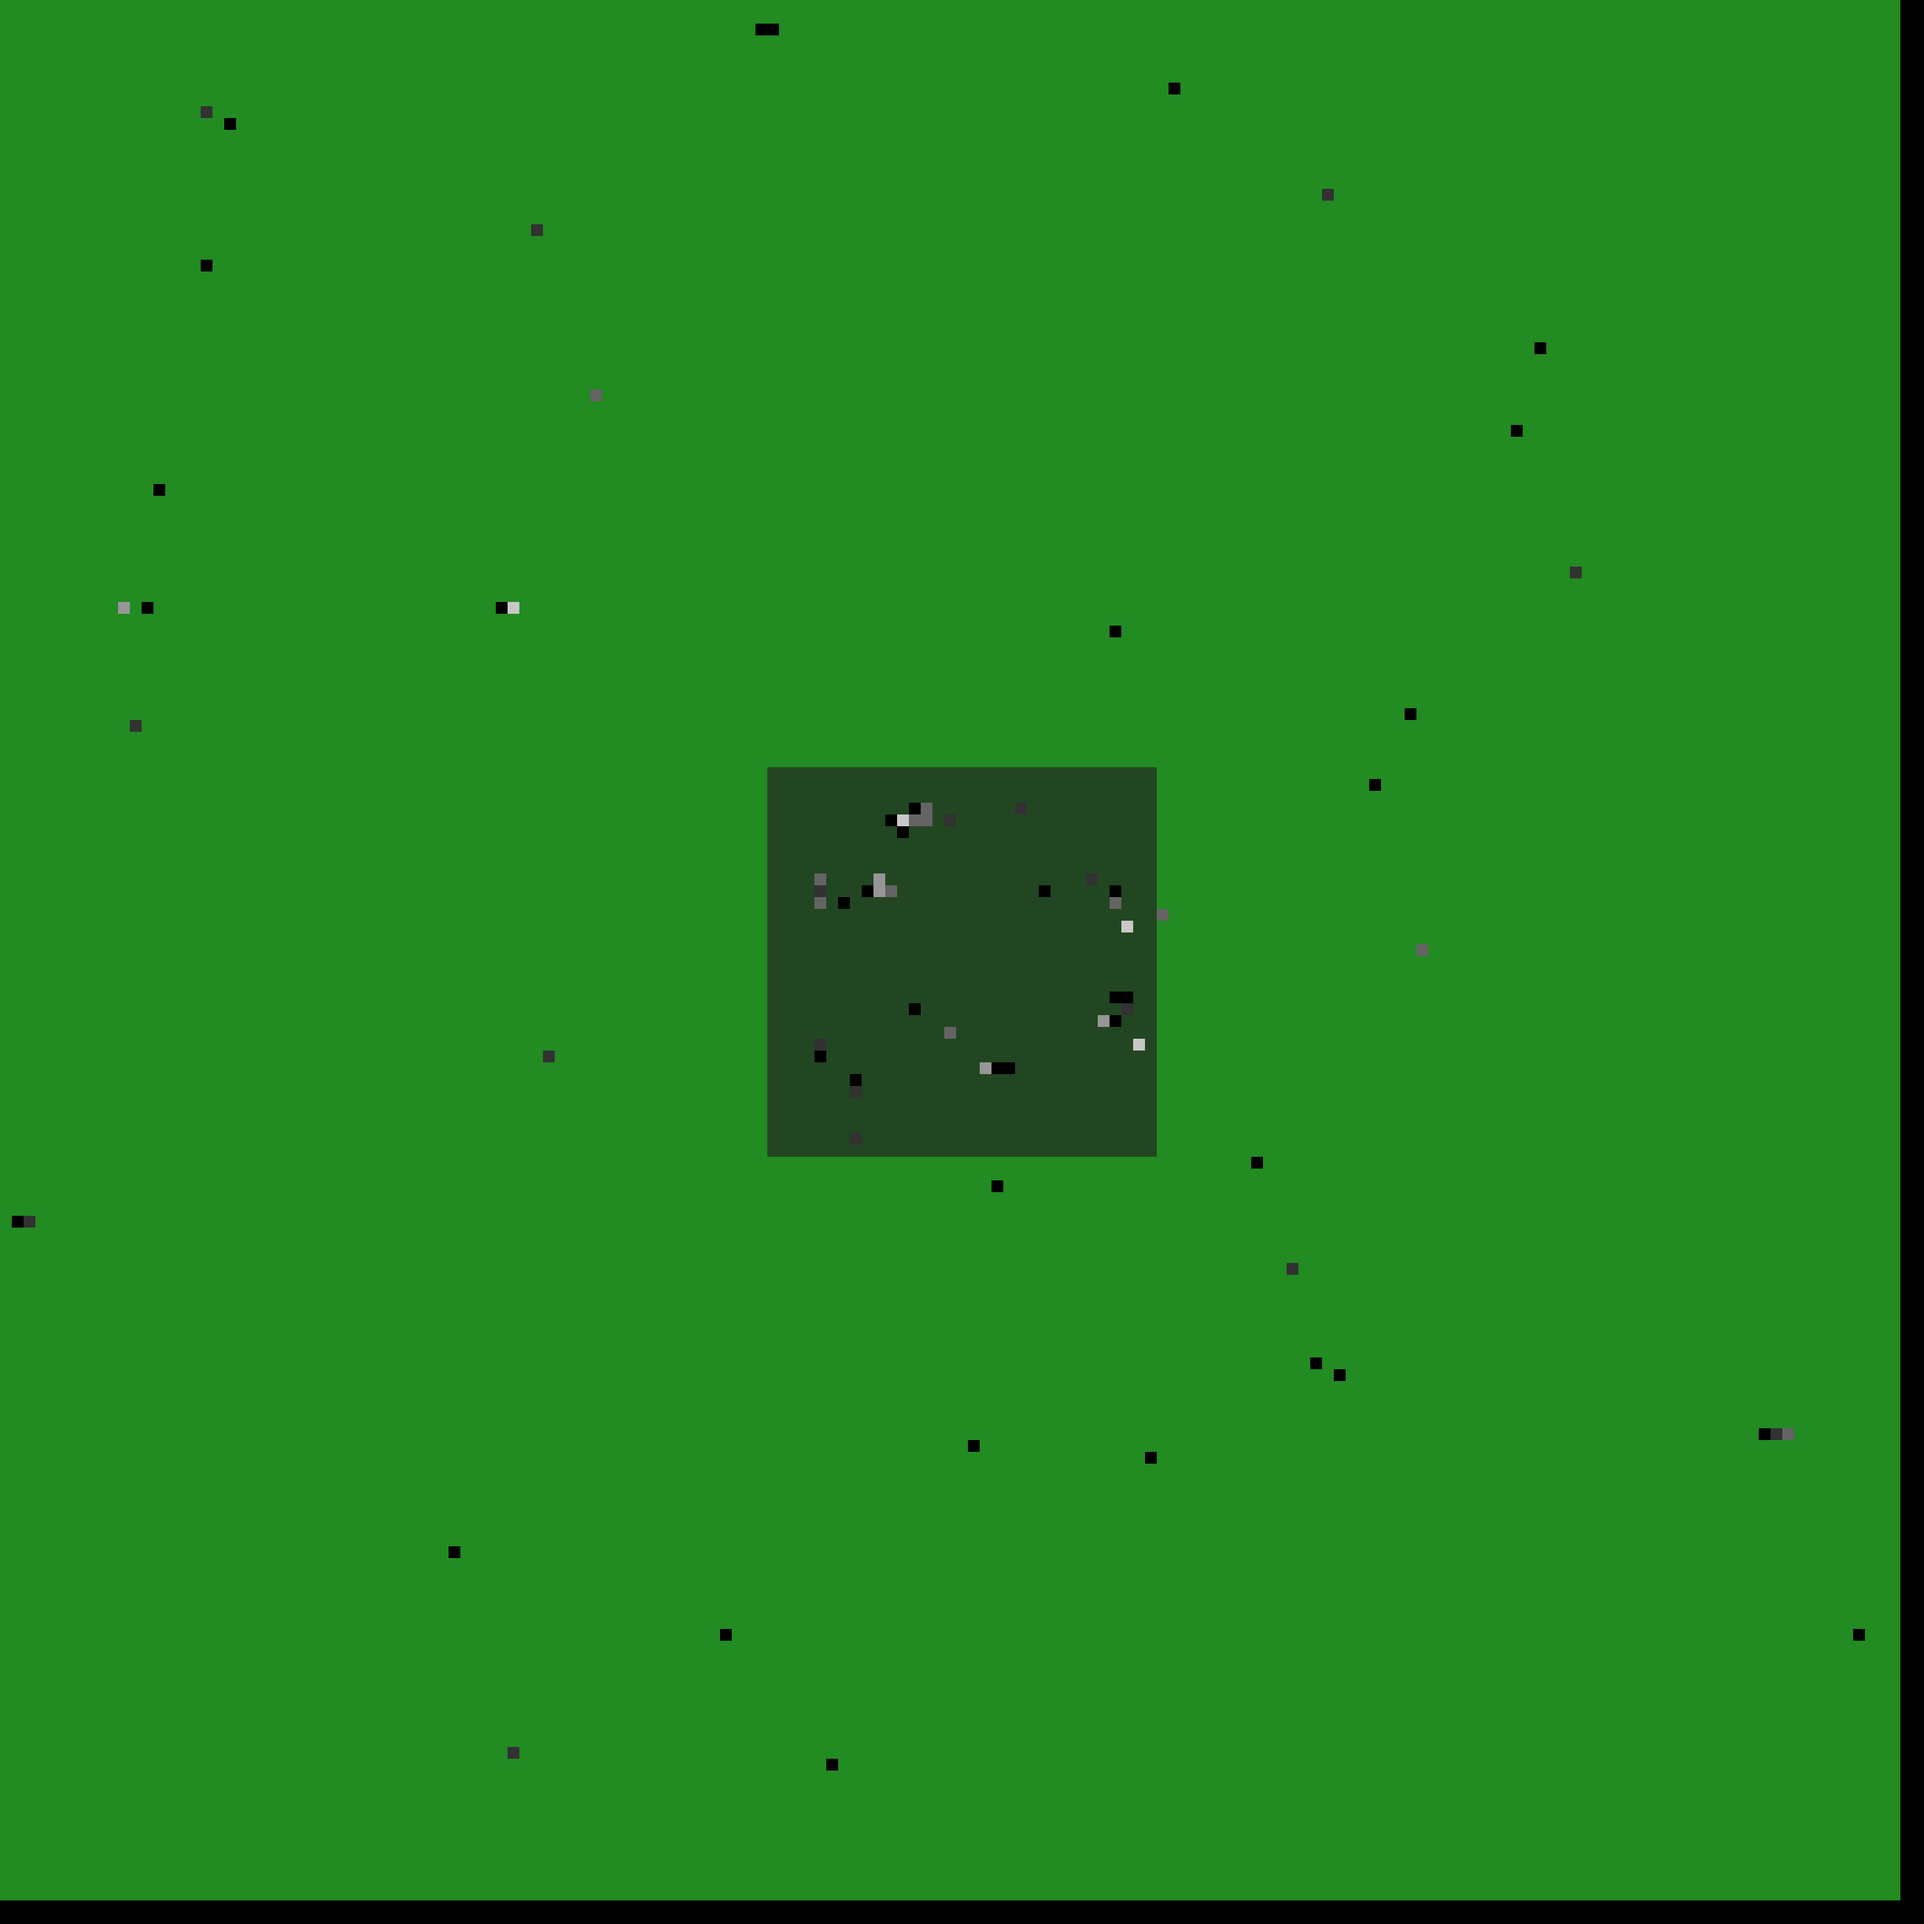
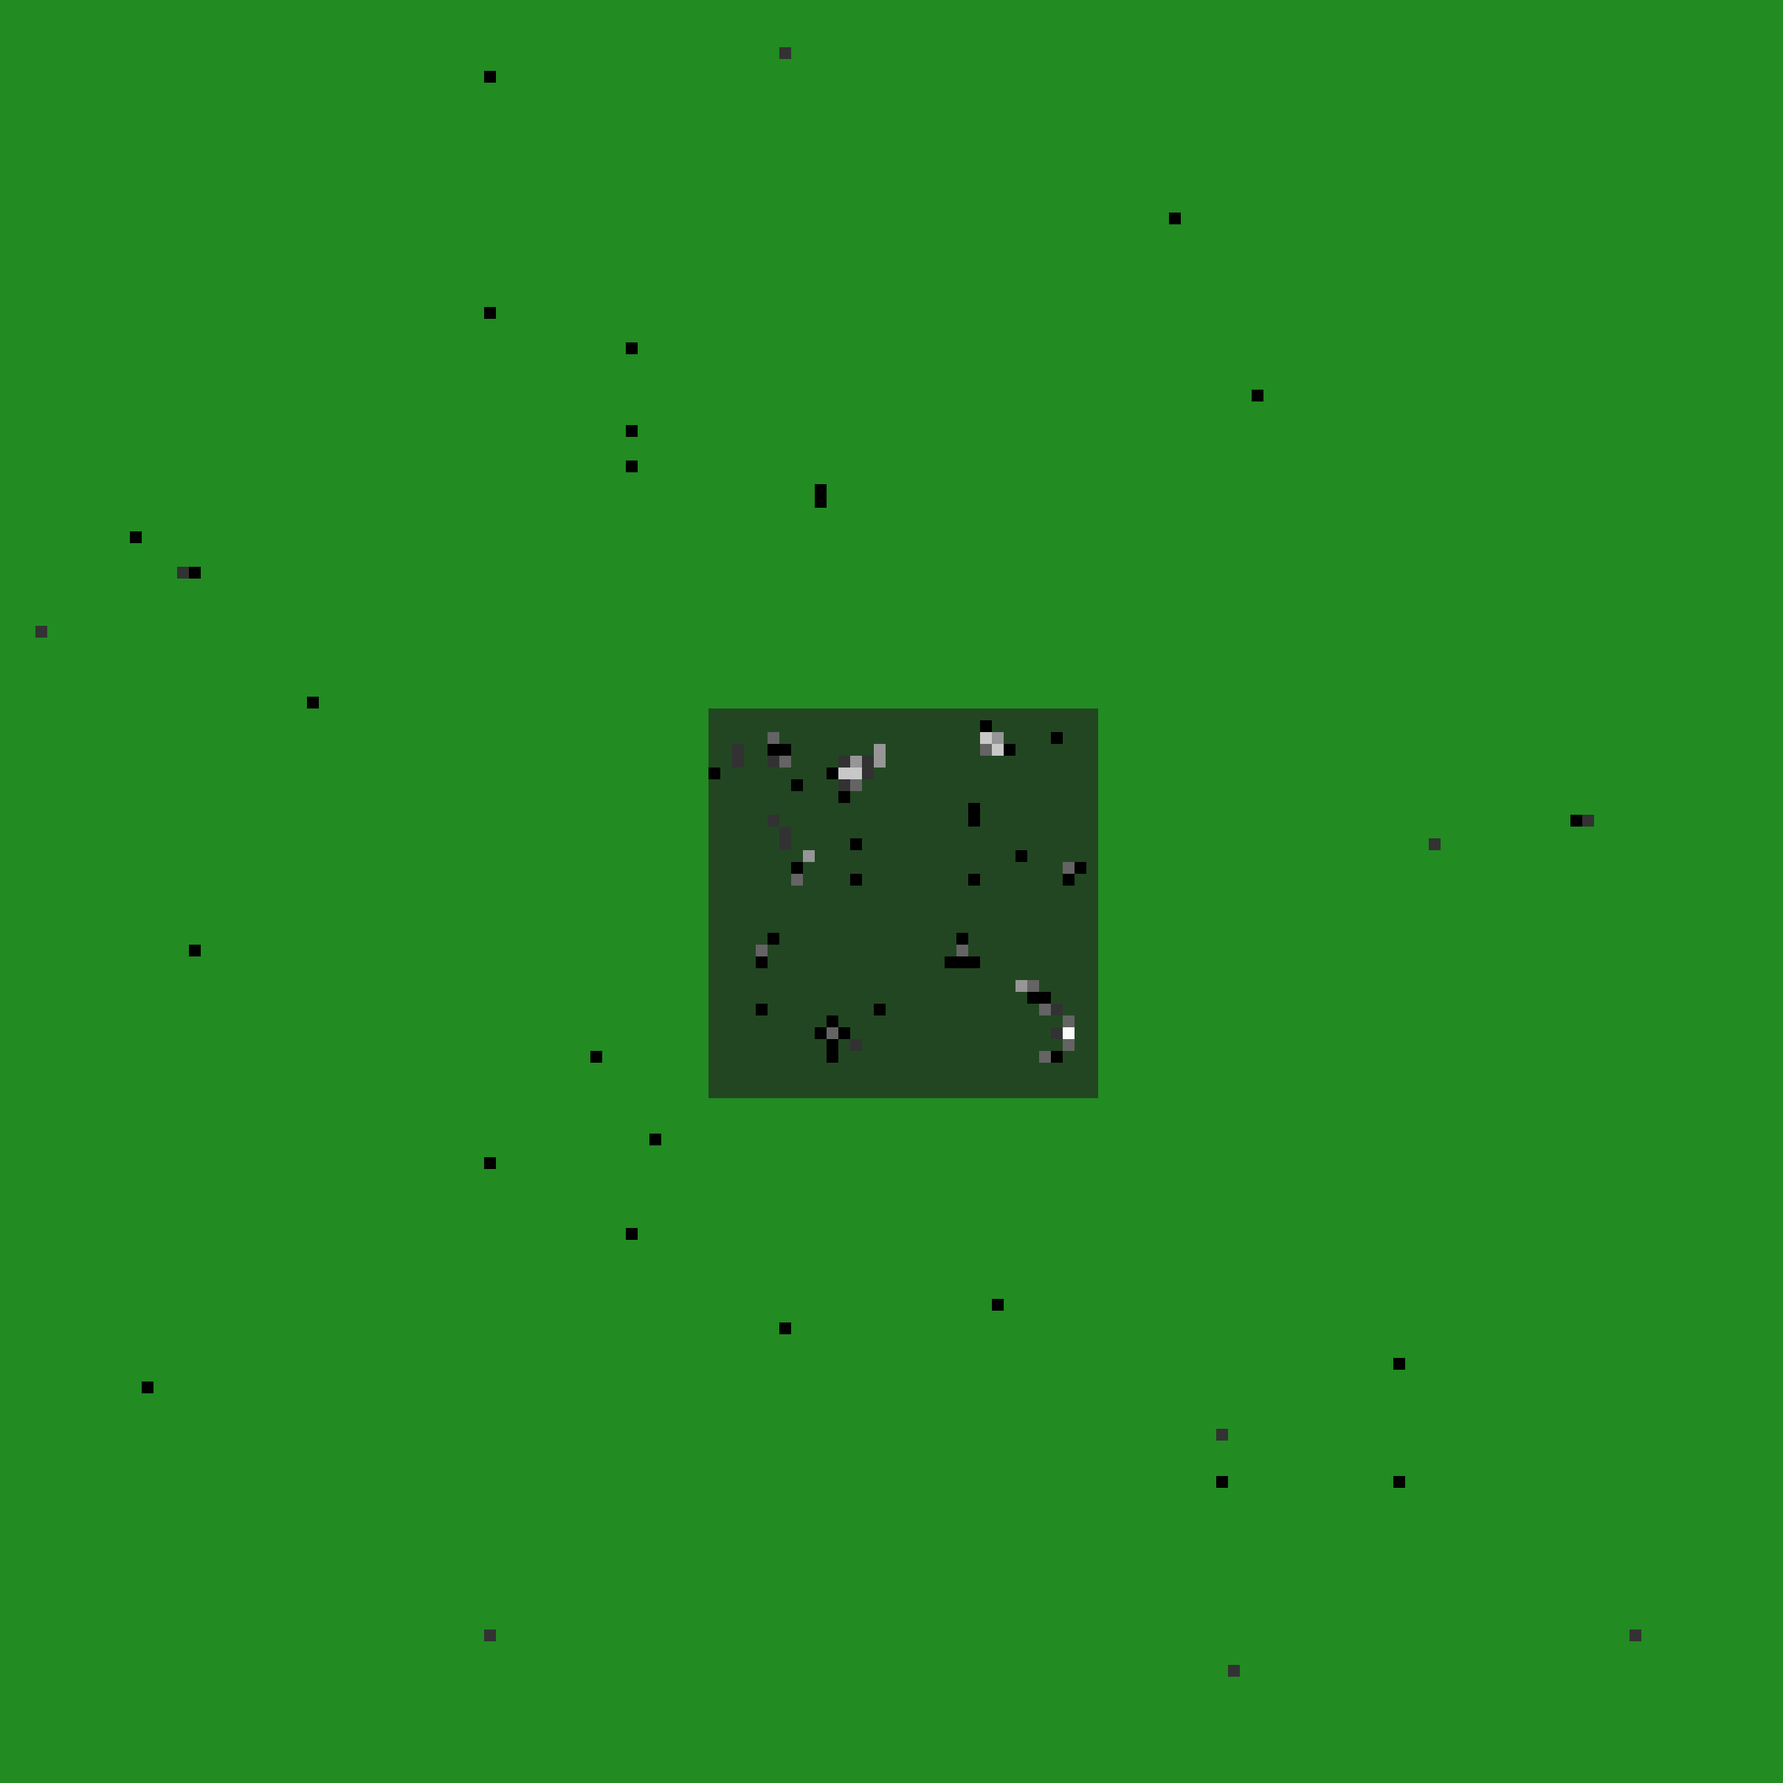
add farm calculations

diff --git a/src/util.py b/src/util.py
@@ -1,102 +1,52 @@
-import sqlite3
+import requests
 from PIL import Image
 
-def get_tile(map_):
-    return {
-        'id': map_[0],
-        'x': map_[1],
-        'y': map_[2],
-        'user_id': map_[3],
-        'village_id': map_[4],
-        'type': map_[5],
-        'event_id': map_[6]
-    }
-
-def is_settlable(tile):
-    settlable_types = [
-        'plains', 'woodlands', 'rocky plains',
-        'marshlands', 'swamp', 'village', 'town', 'city'
-    ]
-    return tile['type'] in settlable_types
-
-def get_number_of_farms(tile):
-    if tile['type'] == 'plains':
-        return 4
-    elif tile['type'] == 'marshlands' or tile['type'] == 'water':
-        return 3
-    elif tile['type'] == 'forest' or tile['type'] == 'woodlands':
-        return 2
-    elif tile['type'] == 'rocky plains' or tile['type'] == 'hills' or tile['type'] == 'swamp':
-        return 1
-    elif tile['type'] == 'mountains' or \
-        tile['type'] == 'village' or tile['type'] == 'town' or tile['type'] == 'city' or \
-        tile['type'] == 'landmark':
-        return 0
-    else:
-        raise ValueError(f'Unknown tile type {tile["type"]}')
-    
-def get_resources(tile):
-    if tile['type'] == 'plains':
-        return [0, 0, 0, 4]
-    elif tile['type'] == 'marshlands':
-        return [0, 0, 1, 3]
-    elif tile['type'] == 'water':
-        return [0, 1, 0, 3]
-    elif tile['type'] == 'forest':
-        return [3, 0, 0, 2]
-    elif tile['type'] == 'woodlands':
-        return [2, 0, 0, 2]
-    elif tile['type'] == 'rocky plains':
-        return [0, 3, 1, 1]
-    elif tile['type'] == 'hills':
-        return [1, 2, 1, 1]
-    elif tile['type'] == 'swamp':
-        return [2, 0, 1, 1]
-    elif tile['type'] == 'mountains':
-        return [0, 2, 4, 0]
-    elif tile['type'] == 'village' or tile['type'] == 'town' or tile['type'] == 'city':
-        return [1, 1, 1, 2]
-    elif tile['type'] == 'landmark':
-        return [0, 0, 0, 0]
-    else:
-        raise ValueError(f'Unknown tile type {tile["type"]}')
-    
-def get_map_resources():
-    maps_dict = get_maps_dict()
-    resources = {}
-    for coords in maps_dict:
-        resources[coords] = get_resources(maps_dict[coords])
-    return resources
-    
-def is_center(tile, center_x = 81, center_y = 81, radius = 16):
-    return (center_x - radius <= tile['x'] <= center_x + radius) and \
-           (center_y - radius <= tile['y'] <= center_y + radius)
-           
-def get_quadrant(tile, center_x = 81, center_y = 81):
-    if tile['x'] >= center_x and tile['y'] >= center_y:
-        return 1
-    elif tile['x'] < center_x and tile['y'] >= center_y:
-        return 2
-    elif tile['x'] < center_x and tile['y'] < center_y:
-        return 3
-    else:
-        return 4
-    
 directions = [
     (0, 1), (1, 0), (0, -1), (-1, 0),
     (1, 1), (-1, -1), (1, -1), (-1, 1),
 ]
 tile_size = 16
-map_size = 163
+map_size = 151
+class map_data:
 
-def get_maps_dict(map_db_path='maps/map.db'):
-    conn = sqlite3.connect(map_db_path)
-    cursor = conn.cursor()
-    cursor.execute('''
-                SELECT * FROM map
-                    ''')
-    maps = cursor.fetchall()
-    conn.close()
+    def __init__(self, map_json_path='https://forest1.aetherkingdoms.com/api/public/mapExport.json'):
+        self.maps_json = self.get_maps_json(map_json_path)
+        self.tile_types = { tile["type"] : tile for tile in self.maps_json["tiles"] }
+        self.tiles_dict = { (tile['x'], tile['y']): tile for tile in self.maps_json["map"] }
 
-    maps_dict = {(map_[1], map_[2]): get_tile(map_) for map_ in maps}
-    return maps_dict
+    def is_settlable(self, tile):
+        if "canSettle" not in self.tile_types[tile['tile_type']]:
+            return False
+        return self.tile_types[tile['tile_type']]["canSettle"]
+
+    def get_number_of_farms(self, tile):
+        return self.tile_types[tile['tile_type']]["food"]
+
+    # def get_map_resources(self):
+    #     resources = {}
+    #     for (coords, tile) in self.maps_dict:
+    #         resources[coords] = tile['tile_type']
+    #     return resources
+
+    def is_center(self, tile, center_x = 76, center_y = 76, radius = 16):
+        return (center_x - radius <= tile['x'] <= center_x + radius) and \
+            (center_y - radius <= tile['y'] <= center_y + radius)
+
+    def get_quadrant(self, tile, center_x = 76, center_y = 76):
+        if tile['x'] >= center_x and tile['y'] >= center_y:
+            return 'SE'
+        elif tile['x'] < center_x and tile['y'] >= center_y:
+            return 'SW'
+        elif tile['x'] < center_x and tile['y'] < center_y:
+            return 'NW'
+        else:
+            return 'NE'
+
+    def get_maps_json(self, map_json_path):
+        # download map data from the provided URL
+        response = requests.get(map_json_path)
+        maps = response.json()
+
+        return maps
+
+map_data_instance = map_data('https://forest1.aetherkingdoms.com/api/public/mapExport.json')

diff --git a/src/highFarmTiles.py b/src/highFarmTiles.py
@@ -4,17 +4,15 @@ from util import *
 
 def get_high_farm_tiles():
     
-    maps_dict = get_maps_dict()
     farm_counts = {}
-    for coords in maps_dict:
-        farm_counts[coords] = get_number_of_farms(maps_dict[coords])
-
+    for coords, tile in map_data_instance.tiles_dict.items():
+        farm_counts[coords] = map_data_instance.get_number_of_farms(tile)
 
     counted_neighbor_farms = {}
     for i in range(26, 32, 1):
         print(f'--- Tiles with {i} neighboring farms ---')
         for coords in farm_counts:
-            if is_settlable(maps_dict[coords]) is False:
+            if map_data_instance.is_settlable(map_data_instance.tiles_dict[coords]) is False:
                 continue
             neighbor_farms = 0
             x, y = coords
@@ -23,10 +21,10 @@ def get_high_farm_tiles():
                 if neighbor in farm_counts:
                     neighbor_farms += farm_counts[neighbor]
             if neighbor_farms == i:
-                if is_center(maps_dict[coords]):
+                if map_data_instance.is_center(map_data_instance.tiles_dict[coords]):
                     position = 'center'
                 else:
-                    position = f'quadrant {get_quadrant(maps_dict[coords])}'
+                    position = f'quadrant {map_data_instance.get_quadrant(map_data_instance.tiles_dict[coords])}'
                 print(f'Coords: {coords} | Position: {position}')
                 counted_neighbor_farms[coords] = neighbor_farms
                 
@@ -47,8 +45,8 @@ def get_high_farm_tiles():
         'mountains': (169, 169, 169),
         'landmark': (255, 215, 0)
     }
-    for coords in maps_dict:
-        tile = maps_dict[coords]
+    for coords in map_data_instance.tiles_dict:
+        tile = map_data_instance.tiles_dict[coords]
         # color = type_colors.get(tile['type'], (0, 0, 0))
         color = type_colors['plains']
         x, y = coords
@@ -59,7 +57,7 @@ def get_high_farm_tiles():
                     color_base = (counted_neighbor_farms[coords] - 26) * 50
                     highlight_color = (color_base, color_base, color_base)
                     map_image.putpixel((x * tile_size + i, y * tile_size + j), highlight_color)
-                elif is_center(tile):
+                elif map_data_instance.is_center(tile):
                     map_image.putpixel((x * tile_size + i, y * tile_size + j), (34, 70, 34))
                 else:
                     map_image.putpixel((x * tile_size + i, y * tile_size + j), color)
